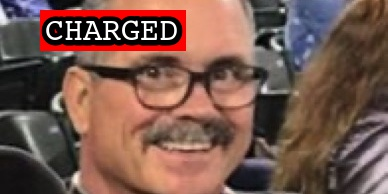
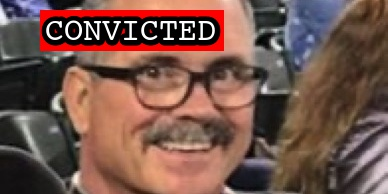
Latest import

Changed region(s): [[0.1546, 0.0309, 0.5876, 0.2784]]

diff --git a/docs/_suspects/daniel-shaw.md b/docs/_suspects/daniel-shaw.md
@@ -4,11 +4,11 @@ lastName: Shaw
 hashtag:
 aka:
 residence: California
-status: Charged
+status: Convicted
 date: 2021-11-29
 charged: 2021-11-29
 indicted:
-convicted:
+convicted: 2022-11-17
 acquitted:
 sentenced:
 dismissed:
@@ -31,7 +31,7 @@ raid:
 perpwalk:
 quote:
 title: Daniel Shaw charged on November 29, 2021
-description: Click for latest case details. Suspects innocent until proven guilty.
+description: Convicted on November 3, 2022. Click for latest case details.
 author: seditiontrack
 layout: suspect
 published: true
@@ -40,8 +40,14 @@ caseName: USA v. SHAW
 judge: James E. Boasberg
 videos:
 charges:
+- code: 40 USC § 5104(e)(2)(G)
+  title: Parading, demonstrating or picketing in a Capitol building
+  url: https://www.law.cornell.edu/uscode/text/40/5104
+  felony: false
 sentence:
 ---
 - [News Report](https://patch.com/california/petaluma/sonoma-county-man-charged-u-s-capitol-breach)
 - [Statement of Facts](https://www.justice.gov/usao-dc/case-multi-defendant/file/1459181/download)
-- [Information](https://extremism.gwu.edu/sites/g/files/zaxdzs2191/f/Daniel%20Shaw%20Information.pdf)
+- [Information](https://www.justice.gov/usao-dc/case-multi-defendant/file/1552791/download)
+- [Plea Agreement](https://www.justice.gov/usao-dc/case-multi-defendant/file/1552796/download)
+- [Statement of Offense](https://www.justice.gov/usao-dc/case-multi-defendant/file/1552801/download)

diff --git a/docs/_suspects/jeffrey-hubbard.md b/docs/_suspects/jeffrey-hubbard.md
@@ -4,11 +4,11 @@ lastName: Hubbard
 hashtag:
 aka:
 residence: Oregon
-status: Charged
+status: Convicted
 date: 2021-12-06
 charged: 2021-12-06
 indicted:
-convicted:
+convicted: 2022-11-17
 acquitted:
 sentenced:
 dismissed:
@@ -31,7 +31,7 @@ raid:
 perpwalk:
 quote: 'Break it down'
 title: Jeffrey Hubbard charged on December 6, 2021
-description: Click for latest case details. Suspects innocent until proven guilty.
+description: Convicted on November 3, 2022. Click for latest case details.
 author: seditiontrack
 layout: suspect
 published: true
@@ -40,8 +40,14 @@ caseName: USA v. HUBBARD
 judge: Carl J. Nichols
 videos:
 charges:
+- code: 40 USC § 5104(e)(2)(G)
+  title: Parading, demonstrating or picketing in a Capitol building
+  url: https://www.law.cornell.edu/uscode/text/40/5104
+  felony: false
 sentence:
 ---
 - [News Report](https://www.oregonlive.com/crime/2021/12/lincoln-city-man-accused-of-storming-the-us-capitol-on-jan-6.html)
 - [Statement of Facts](https://www.justice.gov/usao-dc/case-multi-defendant/file/1459251/download)
 - [Information](https://www.justice.gov/usao-dc/case-multi-defendant/file/1459241/download)
+- [Plea Agreement](https://www.justice.gov/usao-dc/case-multi-defendant/file/1552781/download)
+- [Statement of Offense](https://www.justice.gov/usao-dc/case-multi-defendant/file/1552786/download)
